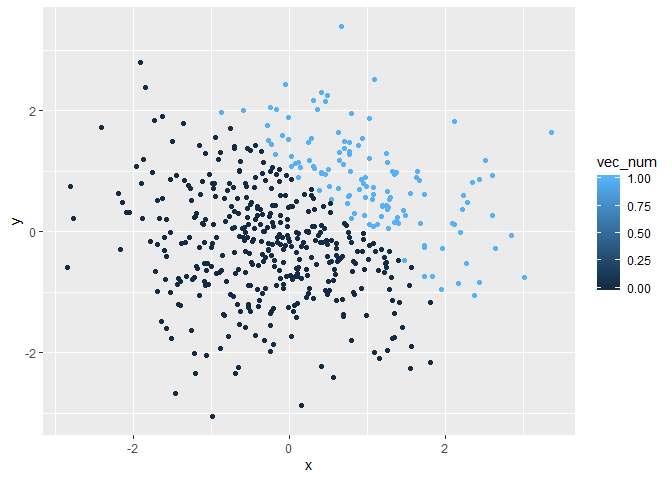
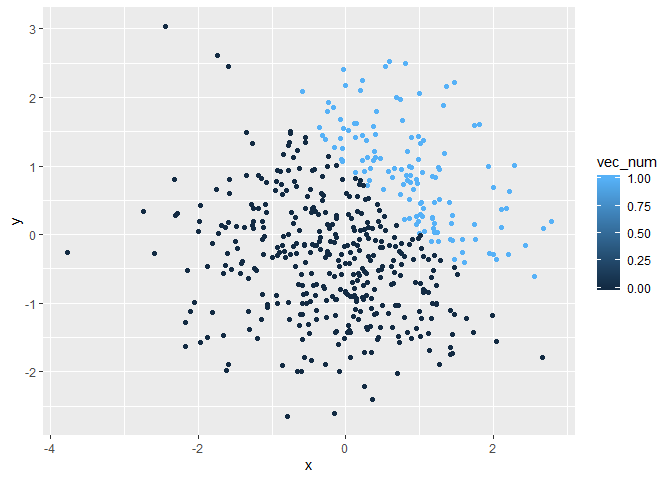
modify the R Markdown file

diff --git a/p8105_hw1_yq2279.md b/p8105_hw1_yq2279.md
@@ -5,21 +5,6 @@ Qi Yuchen
 
 # Problem 1
 
-``` r
-library(tidyverse)
-```
-
-    ## -- Attaching packages -------------------------------------------------------------------------------- tidyverse 1.2.1 --
-
-    ## √ ggplot2 3.2.1     √ purrr   0.3.2
-    ## √ tibble  2.1.3     √ dplyr   0.8.3
-    ## √ tidyr   0.8.3     √ stringr 1.4.0
-    ## √ readr   1.3.1     √ forcats 0.4.0
-
-    ## -- Conflicts ----------------------------------------------------------------------------------- tidyverse_conflicts() --
-    ## x dplyr::filter() masks stats::filter()
-    ## x dplyr::lag()    masks stats::lag()
-
 First, we create a dataframe containing variables of four different
 types, and try to take the mean of each variable in the dataframe.
 
@@ -34,24 +19,12 @@ df = tibble(
 
 # take the mean of each variable
 mean(pull(df, vec_numeric))
-```
-
-    ## [1] -0.2116698
-
-``` r
 mean(pull(df, vec_logical))
-```
-
-    ## [1] 0.5
-
-``` r
 mean(pull(df, vec_char))
 ```
 
     ## Warning in mean.default(pull(df, vec_char)): argument is not numeric or
     ## logical: returning NA
-
-    ## [1] NA
 
 ``` r
 mean(pull(df, vec_factor))
@@ -59,8 +32,6 @@ mean(pull(df, vec_factor))
 
     ## Warning in mean.default(pull(df, vec_factor)): argument is not numeric or
     ## logical: returning NA
-
-    ## [1] NA
 
 From the above we can see when taking the mean, the numerical vector and
 logical vector work, the character vector and the factor vector don’t.
@@ -71,18 +42,25 @@ numeric.
 ``` r
 as.numeric(pull(df, vec_logical))
 as.numeric(pull(df, vec_char))
+```
+
+    ## Warning: 强制改变过程中产生了NA
+
+``` r
 as.numeric(pull(df, vec_factor))
 ```
 
-The logical variable is converted to a numeric varible with elements “0”
-and “1”. This is because “0” means “false” and “1” means “true”, which
-also explains why logical varibles can take the mean. The factor
-variable is converted to a numeric varible with elements “1”, “2” and
-“3”. This is because the elements in the fator variable have three
-levels. But you cannot take the mean because there is no mean for
-levels. The character variable is converted to a numeric varible with
-elements NA. This is because different character elements cannot be
-assigned a numeric value. So it cannot take the mean.
+  - The logical variable is converted to a numeric varible with elements
+    “0” and “1”. This is because “0” means “false” and “1” means “true”,
+    which also explains why logical varibles can take the mean.
+  - The factor variable is converted to a numeric varible with elements
+    “1”, “2” and “3”. This is because the elements in the factor
+    variable have three levels. But you cannot take the mean because
+    there is no mean for different levels.
+  - The character variable is converted to a numeric variable with
+    elements NA. This is because different character elements cannot be
+    assigned a numeric value without losing the meanings. So it cannot
+    take the mean.
 
 Now, we do the last part of problem 1.
 
@@ -129,13 +107,12 @@ logical_to_fac_to_num_multi_s = logical_to_fac_to_num * pull(df, vec_numeric)
 
 ``` r
 rm(list = ls())
-library(tidyverse)
 ```
 
 First we Create a data frame.
 
 ``` r
-df = tibble(
+df_2 = tibble(
   x = rnorm(500),
   y = rnorm(500),
   vec_logical = x + y > 1,
@@ -146,14 +123,16 @@ df = tibble(
 
   - The size of the dataset is nrow = 500, ncol = 5.
 
-  - the mean, median, and standard deviation of x is 0.0391911,
-    -0.0144271, and 1.0526975.
+  - The mean, median, and standard deviation of x is 0.0600594,
+    0.1112811, and 1.0074569.
+
+  - the proportion of cases for which x + y \> 1 is 25.6%.
 
 Then make a scatterplot of y vs x; color points using the logical
-variable.
+variable and export it.
 
 ``` r
-ggplot(df, aes(x = x, y = y, color = vec_logical)) + geom_point()
+ggplot(df_2, aes(x = x, y = y, color = vec_logical)) + geom_point()
 ```
 
 ![](p8105_hw1_yq2279_files/figure-gfm/plot%20logical%20variable-1.png)<!-- -->
@@ -167,15 +146,20 @@ ggsave(file = "plot_logical_variable.png")
 Color points using the numeric variable.
 
 ``` r
-ggplot(df, aes(x = x, y = y, color = vec_num)) + geom_point()
+ggplot(df_2, aes(x = x, y = y, color = vec_num)) + geom_point()
 ```
 
 ![](p8105_hw1_yq2279_files/figure-gfm/plot%20numeric%20variable-1.png)<!-- -->
 
-Color points using the numeric variable.
+Color points using the factor variable.
 
 ``` r
-ggplot(df, aes(x = x, y = y, color = vec_fac)) + geom_point()
+ggplot(df_2, aes(x = x, y = y, color = vec_fac)) + geom_point()
 ```
 
 ![](p8105_hw1_yq2279_files/figure-gfm/plot%20factor%20variable-1.png)<!-- -->
+
+Cooment on the color scales: the logical and factor variables are binary
+and there are two different colors. As for The numeric variable,
+although there are only 0 and 1 values, the legend shows a range from
+0.00 to 1.00 instead of two colors.
